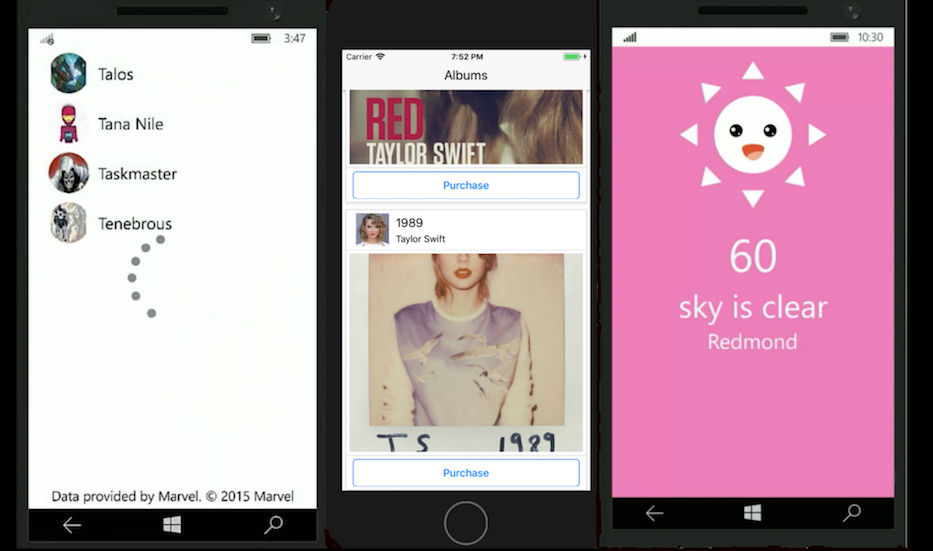
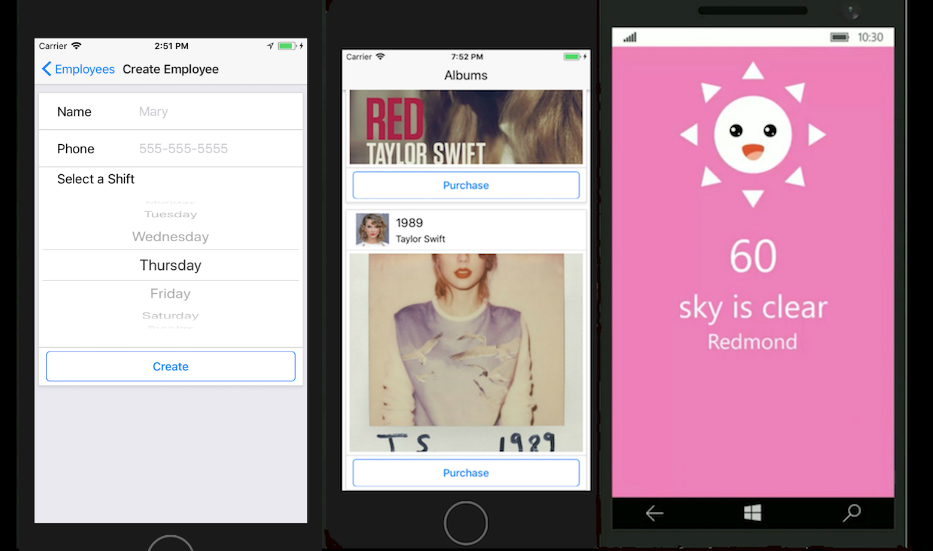
added manager app to app page;

Changed region(s): [[0.0311, 0.0309, 0.3419, 1.0]]

diff --git a/apps.html b/apps.html
@@ -56,6 +56,13 @@
   <div class="container headerPadding" id="projectList">
     <div class="row">
       <div class="col-xs-12">
+        <a href="https://github.com/zaturnvalley/ReactNativeWithReduxDemo" class="noBlue"><h3>React Native Redux Manager App using Firebase</h3></a>
+        <hr>
+        <a href="https://github.com/zaturnvalley/ReactNativeWithReduxDemo" class="noBlue"><img src="./img/managerDemo.png" style="margin: 0 auto;" alt="React Native Album App" class="img-responsive projects text-center"></a>
+      </div>
+    </div>
+    <div class="row">
+      <div class="col-xs-12">
         <a href="https://github.com/zaturnvalley/AlbumsReactNative" class="noBlue"><h3>React Native Album App</h3></a>
         <hr>
         <a href="https://github.com/zaturnvalley/AlbumsReactNative" class="noBlue"><img src="./img/reactNativeAlbumApp.png" style="margin: 0 auto;" alt="React Native Album App" class="img-responsive projects text-center"></a>
